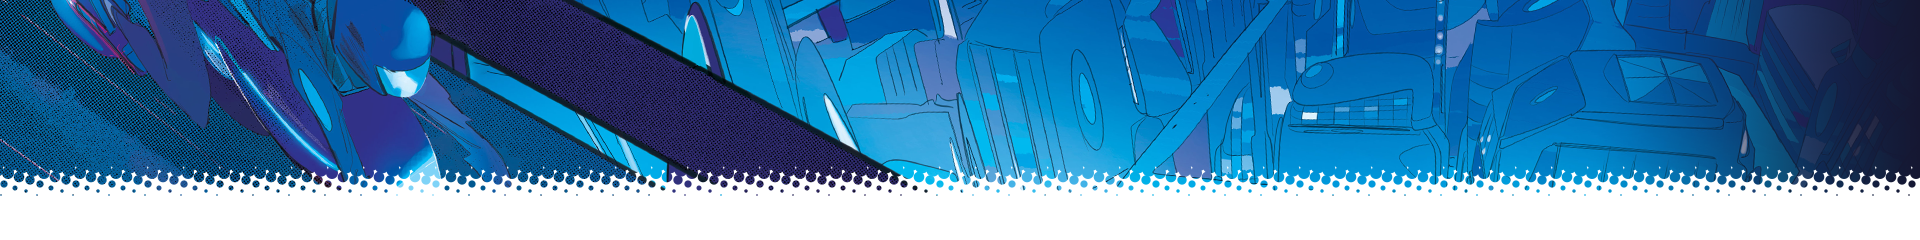
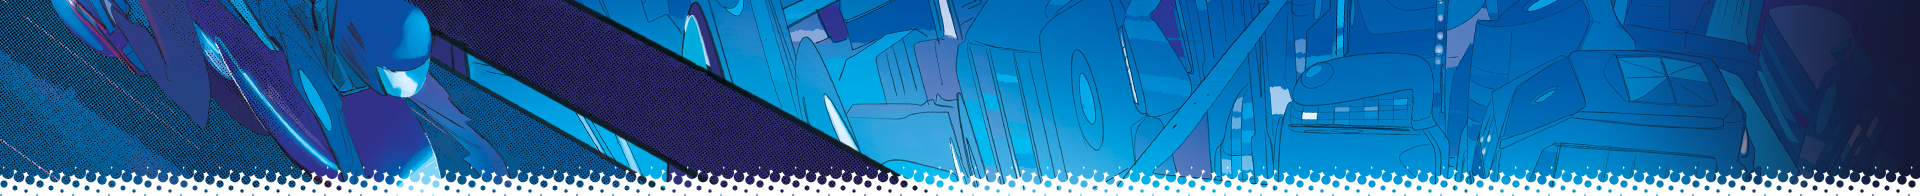
Mobile tweaks and fixes

diff --git a/contest2021rules/index.html b/contest2021rules/index.html
@@ -58,9 +58,8 @@
             <div class="contestrules">
               <h2>The Read Only Memories Comic Book Sweepstakes Rules</h2>
 
-
               <ol>
-              <li>Eligibility: <strong>The Read Only Memories Comic Book Sweepstakes</strong> is open to legal residents of any country where a package may be shipped to them via either FEDEX or UPS (must be in a country one of these operate in) who sign up at <a  href="http://romcomics.io/contest2021">http://romcomics.io/contest2021</a>. Entrants must be 13 years of age or older as of their date of entry in this promotion in order to qualify. This sweepstakes is subject to federal, state, and local laws and regulations and void where prohibited by law. MidBoss LLC's employees, its subsidiaries, affiliates, suppliers, partners, advertising and promotion agencies, and directors (collectively the “Employees”), as well as members of an Employees' immediate family and/or those living in the same household of Employees are ineligible to participate in the [Official Name] [Sweepstakes or Contest].</li>
+              <li>Eligibility: <strong>The Read Only Memories Comic Book Sweepstakes</strong> is open to legal residents of any country where a package may be shipped to them via either FEDEX or UPS (must be in a country one of these operate in) who sign up at <a href="http://romcomics.io/contest2021">http://romcomics.io/contest2021</a>. Entrants must be 13 years of age or older as of their date of entry in this promotion in order to qualify. This sweepstakes is subject to federal, state, and local laws and regulations and void where prohibited by law. MidBoss LLC's employees, its subsidiaries, affiliates, suppliers, partners, advertising and promotion agencies, and directors (collectively the “Employees”), as well as members of an Employees' immediate family and/or those living in the same household of Employees are ineligible to participate in the [Official Name] [Sweepstakes or Contest].</li>
 
               <li>Sponsorship. The sponsor is MidBoss LLC (“Sponsor”), located at 1569 Solano Ave #421, Berkeley, CA 94707. Sponsor will conduct the Sweepstakes or Contest substantially as described in these Official Rules.</li>
 
@@ -68,7 +67,7 @@
 
               <li><strong>The Read Only Memories Comic Book Sweepstakes</strong> Entry Period: This promotion begins on September 27, 2021 through November 15th, 2021 at 11:59PM Pacific Standard Time (“Entry Period”). To be eligible for the Sweepstakes, entries must be received within the specified Entry Period. </li>
 
-              <li>How to Enter: Eligible entrants can enter The <strong>The Read Only Memories Comic Book Sweepstakes</strong> by submitting an entry via the online form provided at <a  href="http://romcomics.io/contest2021">http://romcomics.io/contest2021</a>. As a participant, your entry must fully meet all Sweepstakes or Contest requirements, as specified in the Official Rules, in order to be eligible to win a prize. Incomplete entries or those that do not adhere to the Official Rules or specifications will be disqualified at the Sponsor's sole discretion. Participants may only enter once, using a valid email address they provide. Only one prize may be won per person. Fraudulent methods of entry or circumvention of the rules may result in the Sponsor invalidating your entries and removing them from the Sweepstakes at the Sponsor’s sole discretion.</li>
+              <li>How to Enter: Eligible entrants can enter The <strong>The Read Only Memories Comic Book Sweepstakes</strong> by submitting an entry via the online form provided at <a href="http://romcomics.io/contest2021">http://romcomics.io/contest2021</a>. As a participant, your entry must fully meet all Sweepstakes or Contest requirements, as specified in the Official Rules, in order to be eligible to win a prize. Incomplete entries or those that do not adhere to the Official Rules or specifications will be disqualified at the Sponsor's sole discretion. Participants may only enter once, using a valid email address they provide. Only one prize may be won per person. Fraudulent methods of entry or circumvention of the rules may result in the Sponsor invalidating your entries and removing them from the Sweepstakes at the Sponsor’s sole discretion.</li>
 
               <li>Prizes: The Five (5) Winners of the <strong>The Read Only Memories Comic Book Sweepstakes</strong> (the “Winner”) will each receive a signed copy of Read Only Memories trade paperback comic book, valued at $17.99 (USD). The actual/appraised prize value may differ at the time the prize is awarded. The prize(s) shall be determined solely by the Sponsor. There shall be no cash or other prize substitution permitted except at the Sponsor’s discretion. The prize is non-transferable. The Winner, upon acceptance of the prize, is solely responsible for all expenses related to the prize, including without limitation any and all local, state, and federal taxes. The Winner shall not transfer assignment of the prize to others nor shall the Winner request the cash equivalent or prize substitution. By accepting the prize, the selected Winner grants permission for the Sponsor to use the Winner’s entry, and name for purposes of advertising and trade without further compensation unless prohibited by law. </li>
 
@@ -92,12 +91,17 @@
               </ol>
             </div>
 
+            <hr>
+
+              <p>Return to <a href="./../contest2021/">Contest Page</a></p>
+              <p>Return to <a href="./../">Home Page</a></p>
+
             </div>
         </div>
         </div>
 	  </main>
 
-<div id="footerimg"><img src="./../imgs/footer.png" class="img-responsive"></div>
+<div id="footerimg"><img src="./../imgs/footer.png" class="img-fluid"></div>
   <footer>
     <div class="container">
       <div class="row">

diff --git a/contest2021/index.html b/contest2021/index.html
@@ -45,7 +45,7 @@
 <div class=master>
 
 <header>
-     <div class="header-compact"><div class="inner-header"><a href="./../"><img src="./../imgs/smallheaderlogo.png" height="171px" /></a></div></div>
+     <div class="header-compact"><div class="inner-header"><a href="./../"><img src="./../imgs/smallheaderlogo.png" class="img-fluid" /></a></div></div>
   </header>
 
     <main role="main">
@@ -64,25 +64,28 @@
               Read Only Memories is based on the hit game 2064: Read Only Memories, this graphic novel by writer Sina Grace and artist Stefano Simeone bridges the gap between 2064: Read Only Memories and the seque, NEURODIVER!
             </p>
 
-            <!-- Begin Signup Form -->
-            <div id="signup">
+          <!-- Begin Signup Form -->
+          <div id="signup">
             <form action="https://sendy.midboss.com/subscribe" method="POST" accept-charset="utf-8">
-            <label for="EMAIL"><h2>To enter the contest, join the Midboss mailing list</h2></label>
-            <input type="email" placeholder="email address" name="email" class="email" id="email" required/>
-          <div style="display:none;">
-            <label for="comic_contest">comic_contest</label><br/>
-            <input type="hidden" name="comic_contest" id="comic_contest" value="1"/>
-            </div>
-            <input type="hidden" name="list" value="RcSP70JIUHyu9UHsEMQBiQ"/>
-            <input type="hidden" name="subform" value="yes"/>
-            <input type="submit" name="submit" id="submit" value="Subscribe" class="button"/></div>
-          </form>
+              <label for="EMAIL"><h2>To enter the contest, join the Midboss mailing list</h2></label>
+              <input type="email" placeholder="email address" name="email" class="email" id="email" required/>
+              <div style="display:none;">
+                <label for="comic_contest">comic_contest</label><br/>
+                <input type="hidden" name="comic_contest" id="comic_contest" value="1"/>
+              </div>
+              <input type="hidden" name="list" value="RcSP70JIUHyu9UHsEMQBiQ"/>
+              <input type="hidden" name="subform" value="yes"/>
+              <input type="submit" name="submit" id="submit" value="Subscribe" class="button"/>
+            </form>
             </div>
             <!--End Signup Form-->
 
               <p>
-              5 winners will be selected on October 13th. For contest rules <a href="./../contestrules2021">click here</a>.
+              5 winners will be selected on October 13th. For contest rules <a href="./../contest2021rules">click here</a>.
               </p>
+
+              <hr>
+              <p>Return to <a href="./../">Home Page</a></p>
 
             </div>
             </div>
@@ -90,7 +93,7 @@
         </div>
 	  </main>
 
-<div id="footerimg"><img src="./../imgs/footer.png" class="img-responsive"></div>
+<div id="footerimg"><img src="./../imgs/footer.png" class="img-fluid"></div>
   <footer>
     <div class="container">
       <div class="row">

diff --git a/styles/midboss.css b/styles/midboss.css
@@ -76,6 +76,12 @@ h3 {
     margin-bottom: .5rem;
 }
 
+h1 {
+    text-align: center;
+    margin: 1.5rem 0 1rem 0;
+    font-size: 2.5em;
+}
+
 h2 {
     margin: 1.5rem 0 1rem 0;
     font-size: 2.5em
@@ -114,13 +120,13 @@ body {
   padding: 0;
 }
 .jumbotron {
-  background: #000000;
+  background: #fff;
   padding: 0;
   margin-bottom: 0;
   border-bottom: solid 2px #666;
 }
 #main-content {
-  padding: 2.5em 0 7em;
+  padding: 2em 0 1em;
 }
 .padding-top {
   padding-top: 3em;
@@ -172,7 +178,7 @@ footer .social-links a:last-child img {
   height:auto !important;
   text-align: center;
   font-size: 18px;
-  background: #000;
+  background: #fff;
   /* Center slide text vertically */
   display: -webkit-box;
   display: -ms-flexbox;
@@ -443,22 +449,20 @@ margin-bottom: -8px;
 
 #footerimg {
     width: 100%;
-    margin-top: -150px;
-}
-
-#footerimg img{
-    width: 100%;
 }
 
 .header-compact{
 background: url("./../imgs/headerpattern.png") repeat-x;
+background-position: bottom left;
+margin-bottom: 2em;
 }
 
 .inner-header{
 background: url("./../imgs/smallheader5.png");
+background-position: bottom left;
 background-repeat:no-repeat;
 text-align: center;
-height: 240px;
+height: 100%;
 }
 
 .contestrules h2{
@@ -477,12 +481,6 @@ height: 240px;
 header {
   margin-bottom: -70px;
 }
-
-@media (min-width: 576px) and (max-width: 768px) {
-    .inner-header img{
-    height: 50%;
-    }
-  }
 
 .steamwidget {
   padding: 20px 0 20px 0;

diff --git a/index.html b/index.html
@@ -62,9 +62,9 @@
         <div class="row">
 	      <div class="col-md-12">
 
-			<h2>Read Only Memories: New Comic Series from IDW & MidBoss</h2>
+			<h1>Read Only Memories: New Comic Series from IDW & MidBoss</h1>
 
-			<p class="text-center"><img src="./imgs/romhorizontal.png" class="center img-works" alt="Read Only Memories Comic" /></p>
+			<p class="text-center"><img src="./imgs/romhorizontal.png" class="center img-works img-fluid" alt="Read Only Memories Comic" /></p>
 
             <p>
               Return to the colorful cyberpunk future of Read Only Memories in a brand new story involving sentient AI, love and a web of conspiracy. Taking place in the years between 2064: Read Only Memories and Read Only Memories: NEURODIVER, the next upcoming mystery adventure game in the Read Only Memories universe, IDW’s series features Lexi Rivers, formerly a detective and now a private investigator. When a robot arrives at her door seeking a lost lover, she is drawn into a journey to the seemingly peaceful beaches of Santa Cruz.</p>
@@ -97,7 +97,7 @@
         </div>
 	  </main>
 
-<div id="footerimg"><img src="./imgs/footer.png" class="img-responsive"></div>
+<div id="footerimg"><img src="./imgs/footer.png" class="img-fluid"></div>
   <footer>
     <div class="container">
       <div class="row">

diff --git a/contest2021entered/index.html b/contest2021entered/index.html
@@ -61,7 +61,7 @@
 
         			<h2>You have been entered in the contest!</h2>
               <p>
-                We will randomly select X winners on <DATE> and will let you know if you won. For full contest rules <a href="./../contestrules2021">click here</a>.
+                We will randomly select X winners on <DATE> and will let you know if you won. For full contest rules <a href="./../contest2021rules">click here</a>.
               </p>
 
               <p>
@@ -75,7 +75,7 @@
         </div>
 	  </main>
 
-<div id="footerimg"><img src="./../imgs/footer.png" class="img-responsive"></div>
+<div id="footerimg"><img src="./../imgs/footer.png" class="img-fluid"></div>
   <footer>
     <div class="container">
       <div class="row">
